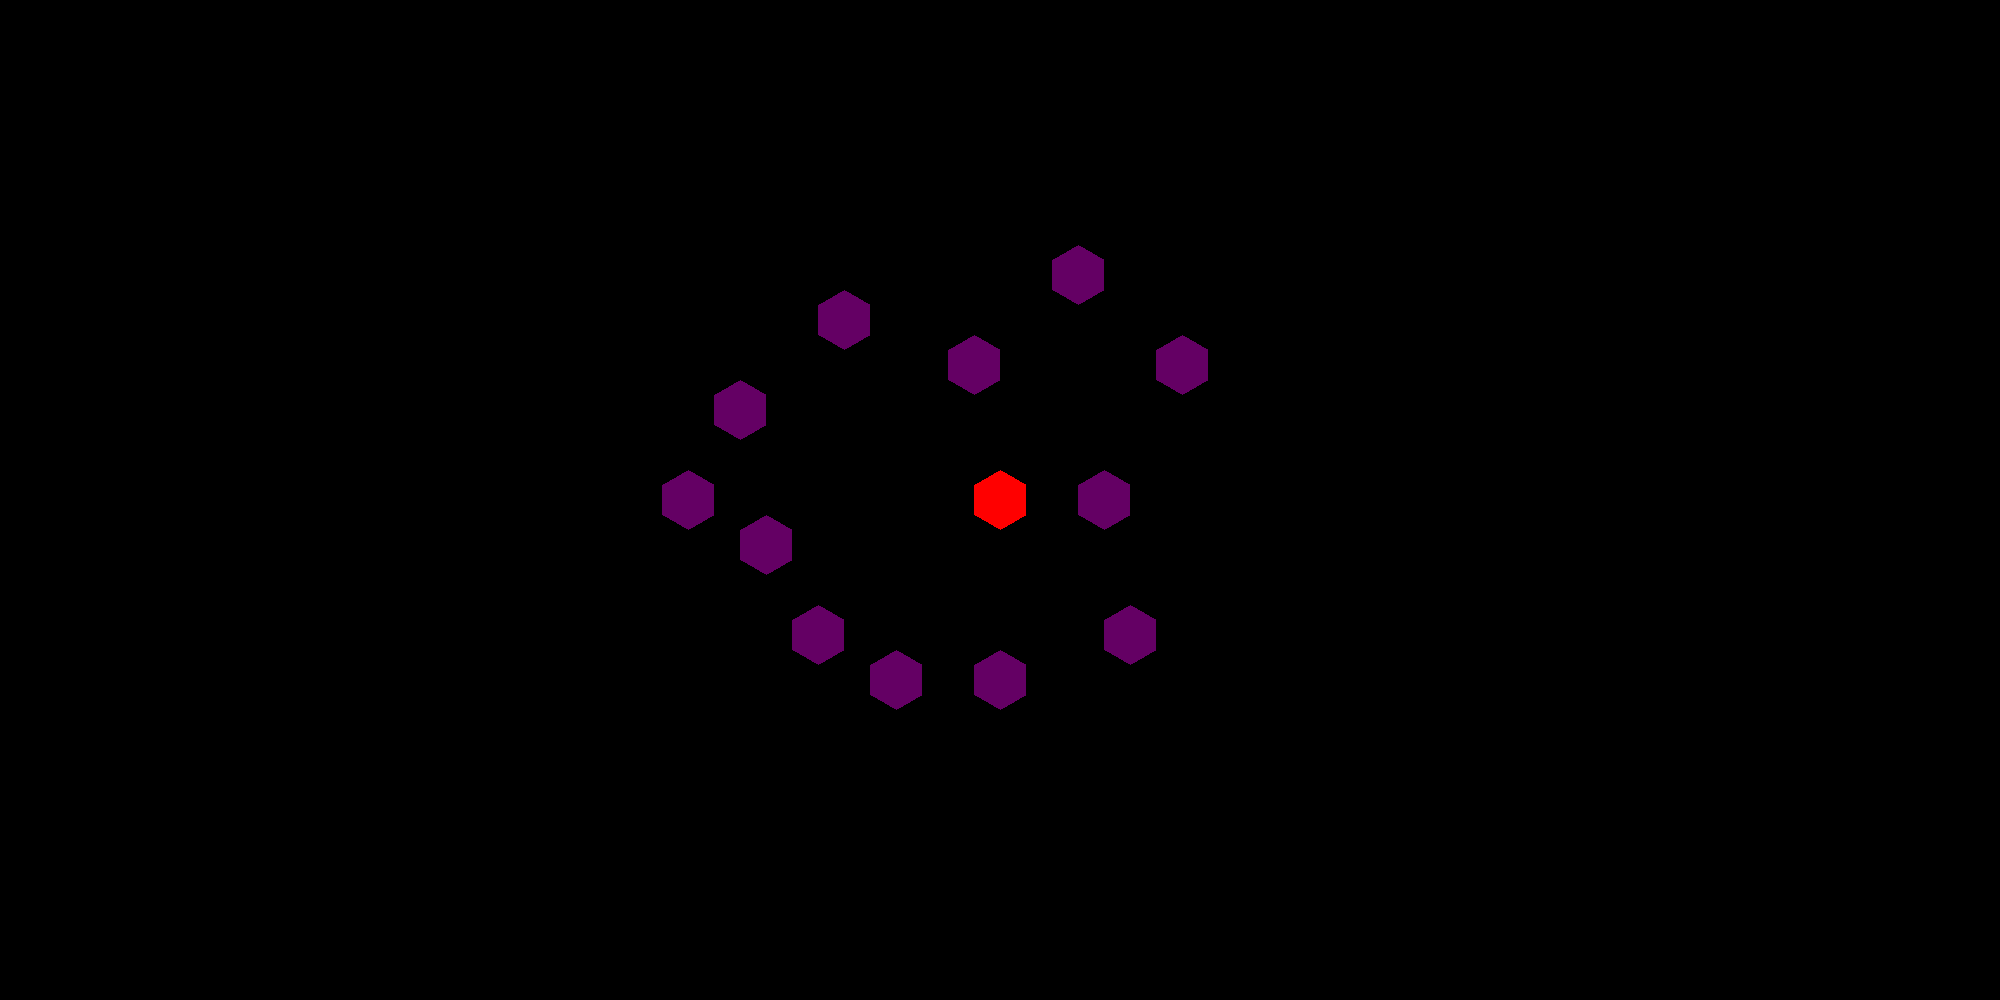
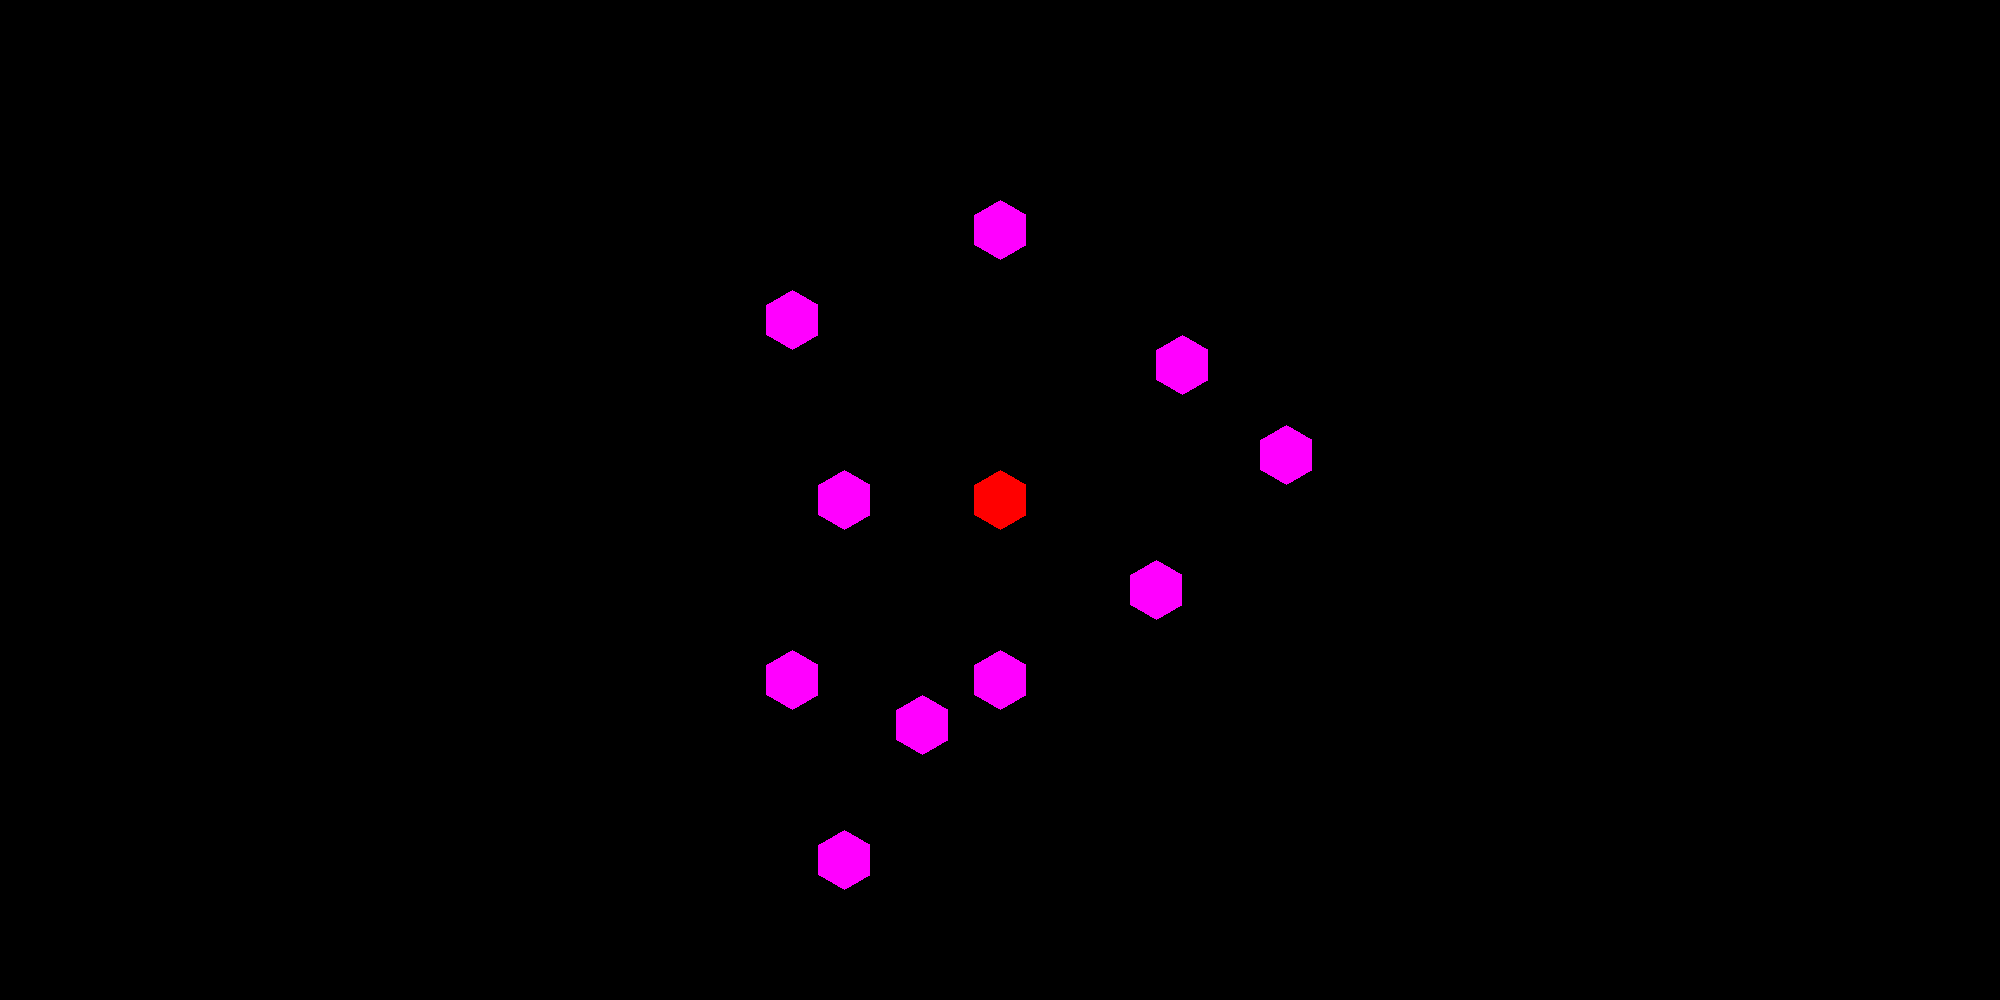
Refactor tile properties and enhance village placement logic in hexmap

diff --git a/src/hexmap.rs b/src/hexmap.rs
@@ -1,16 +1,18 @@
 use std::ops::{Index, IndexMut};
-
 use hexx::{Hex, storage::{HexStore, HexagonalMap}};
 use image::Rgb;
 use imageproc::drawing::{Canvas, draw_polygon_mut};
 use rand::prelude::*;
-use crate::{tiles::*, drawing::*};
+use crate::{drawing::*, tiles::*};
 
 pub const SMALL_MAP_SIZE: u8 = 73;
 pub const BIG_MAP_SIZE:   u8 = 104;
 
-const MIN_NEIGHBORS: u8 = 2;
-const VILLAGE_COUNT: usize = 10;
+const MIN_HEX_NEIGHBORS: u8 = 2;
+
+const VILLAGE_COUNT: u8 = 10;
+const VILLAGE_OFFSET: u8 = 3;
+const MIN_PROP_DISTANEC: usize = 2;
 
 /// Matching for pattern `Option<T>::Some(a)` or `Option<T>::None`
 /// 
@@ -21,9 +23,13 @@ macro_rules! empty {
     };
 }
 
+/// RGB colors.
+///
+/// For the purpose of color conversion, as well as blending, the implementation of `Pixel`
+/// assumes an `sRGB` color space of its data.
 macro_rules! rgb {
     ($r:expr, $g:expr, $b:expr) => {
-        Rgb([$r, $g, $b])
+        Rgb::<u8>([$r, $g, $b])
     };
 }
 
@@ -55,7 +61,7 @@ impl TileMap_rawShapeGen {
         let mut map = Self { map, size };
 
         for i in 0..size as u8 {
-            map.do_a_run(rng, i < MIN_NEIGHBORS);
+            map.do_a_run(rng, i < MIN_HEX_NEIGHBORS);
         };
         map
     }
@@ -74,8 +80,8 @@ impl TileMap_rawShapeGen {
     fn do_a_run<R: Rng>(&mut self, rng: &mut R, overule_min_neighbors: bool) {
         // println!("{}", self.iter().filter(|(_, state)| matches!(state, RawTileState::FreeToTake)).collect::<Vec<_>>().len());
 
-        let (hex, _) = self.map.iter()
-        .filter(|(hex, state)| matches!(state, RawTileState::FreeToTake) && (overule_min_neighbors || self.count_neighbors(*hex) >= MIN_NEIGHBORS))
+        let (hex, _) = self.iter()
+        .filter(|(hex, state)| matches!(state, RawTileState::FreeToTake) && (overule_min_neighbors || self.count_neighbors(*hex) >= MIN_HEX_NEIGHBORS))
         .choose(rng)
         .expect("We ran out of tiles. Congrats");
 
@@ -298,44 +304,53 @@ impl DrawHexMap for TileMap_templates {
 
 #[allow(non_camel_case_types)]
 pub struct TileMap_props {
-    map: HexagonalMap<Option<Prop>>,
+    map: HexagonalMap<PropOption>,
     size: MapSize
 }
 impl TileMap_props {
 
     #[must_use]
     pub fn new<R: Rng>(rng: &mut R, from: &TileMap_shape) -> Self {
-        let edge = from.find_edges();
-        let edge_len = edge.len();
-        let distance = edge_len / VILLAGE_COUNT;
-        let mut village_pos = Vec::new();
+        let mut output = Self {
+            map: HexagonalMap::new(Hex::ZERO, from.size_u32(), |_| PropOption::CanHave), 
+            size: from.size
+        };
+        output.place_villages(from);
 
-        for i in 0..edge_len {
-            if i % distance == 0 {
-                village_pos.push(edge[i])
+        output
+    }
+
+    fn trim_tiles_too_close(&mut self) {
+        todo!()
+    }
+
+    fn place_villages(&mut self, shape: &TileMap_shape) {
+        let edge = shape.find_edges();
+        let edge_len = edge.len();
+        let distance = edge_len / VILLAGE_COUNT as usize;
+        let mut village_pos: Vec<Hex> = Vec::new();
+        let mut edge_iter = edge.iter();
+        for _ in 0..VILLAGE_COUNT {
+            for _ in 0..distance-1 {edge_iter.next();};
+            village_pos.push(*edge_iter.next().unwrap());
+        }
+        if village_pos.len() != VILLAGE_COUNT as usize {
+            panic!("invalid number of villages. Expected {VILLAGE_COUNT}, got {}.", village_pos.len())
+        }
+
+        for (id, hex) in village_pos.iter().enumerate() {
+            let value = self.get(*hex);
+            if value.is_none() || !value.unwrap().can_have_prop() {
+                panic!("attempted to place village at invalid position, at hex {hex:?}, with value {value:?}")
+            }
+            else {
+                self[*hex].give_prop(Prop::Village(id as u8 + 1));
             }
         }
-        
-        Self { map: HexagonalMap::new(
-            Hex::ZERO, 
-            from.size_u32(), 
-            |h| 
-            if edge.contains(&h) {
-                if village_pos.contains(&h) {
-                    Some(Prop::Village(0))
-                } 
-                else {
-                    None
-                }
-            } 
-            else {
-                None
-            }
-        ), size: from.size }
     }
 
     #[inline(always)]
-    pub fn iter(&self) -> impl Iterator<Item = (Hex, &Option<Prop>)> {
+    pub fn iter(&self) -> impl Iterator<Item = (Hex, &PropOption)> {
         self.map.iter()
     }
 
@@ -347,7 +362,7 @@ impl TileMap_props {
 }
 
 impl Index<Hex> for TileMap_props {
-    type Output = Option<Prop>;
+    type Output = PropOption;
     fn index(&self, index: Hex) -> &Self::Output {
         &self.map[index]
     }
@@ -374,7 +389,11 @@ impl DrawHexMap for TileMap_props {
                 color = rgb!(255, 0, 0);
             }
             else if state.is_some() {
-                color = rgb!(100, 0, 100);
+                color = match state.unwrap() {
+                    Some(Prop::Village(_)) => rgb!(255, 0, 255),
+                    Some(_) => rgb!(0, 255, 0),
+                    None => rgb!(255, 255, 0)
+                }
             }
             else {
                 color = rgb!(0, 0, 0);

diff --git a/src/tiles.rs b/src/tiles.rs
@@ -1,6 +1,51 @@
 use image::Rgb;
 
 #[derive(PartialEq, Eq, Clone, Copy, Debug)]
+pub enum PropOption {
+    Some(Prop),
+    CanHave,
+    NotAllowed
+}
+impl PropOption {
+    
+    #[must_use]
+    #[inline(always)]
+    pub const fn is_some(self) -> bool {
+        matches!(self, PropOption::Some(_))
+    }
+
+    #[must_use]
+    #[inline(always)]
+    pub const fn can_have_prop(self) -> bool {
+        matches!(self, PropOption::CanHave)
+    }
+
+    #[must_use]
+    #[inline(always)]
+    pub const fn is_allowed(self) -> bool {
+        !matches!(self, PropOption::NotAllowed)
+    }
+
+    #[must_use]
+    pub const fn unwrap(self) -> Option<Prop> {
+        match self {
+            PropOption::Some(prop) => Some(prop),
+            PropOption::CanHave => None,
+            PropOption::NotAllowed => panic!("called `PropOption::unwrap()` on a `PropOption::NotAllowed` value")
+        }
+    }
+
+    pub fn give_prop(&mut self, prop: Prop) {
+        if !self.can_have_prop() {
+            panic!("can't place prop {prop:?}")
+        }
+        else {
+            *self = PropOption::Some(prop);
+        }
+    }
+}
+
+#[derive(PartialEq, Eq, Clone, Copy, Debug)]
 pub struct TileTemplate {
     color: Rgb<u8>,
     amount_small: usize,
@@ -30,7 +75,7 @@ impl TileTemplate {
 #[derive(PartialEq, Eq, Clone, Copy, Debug)]
 pub struct Tile {
     pub template: Option<TileTemplate>,
-    pub prop: Option<Prop>
+    pub prop: PropOption
 
 }
 impl Tile {
@@ -51,7 +96,6 @@ pub enum Prop {
     WeirdMonkey,
     Dragon
 }
-
 
 
 pub const SAND:     TileTemplate = TileTemplate { color: Rgb([203, 189, 147]), amount_small: 24, amount_big: 34 };

diff --git a/src/main.rs b/src/main.rs
@@ -17,12 +17,13 @@ fn main() -> Result<(), Box<dyn Error>>{
     let image_config = ImageConfig { height: img1.height(), width: img1.width(), hex_radius: 30.0 };
     
     loop {
-        let raw = TileMap_rawShapeGen::new(MapSize::Small, &mut rng);
+        let raw = TileMap_rawShapeGen::new(MapSize::Big, &mut rng);
         let shape = TileMap_shape::new(raw);
-        let templates = TileMap_templates::new(&mut rng, &shape);
-        let props = TileMap_props::new(&mut rng, &shape);
 
         if shape.has_no_holes() {
+            let templates = TileMap_templates::new(&mut rng, &shape);
+            let props = TileMap_props::new(&mut rng, &shape);
+            
             templates.draw(&mut img1, image_config);
             img1.save(r"C:\Users\piotr\Documents\code_projects\rust\tucan-v2\image.png")?;
 
